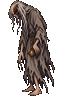
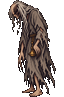
feat: [S-LOOK-PRINCIPLE] 振りかぶった構えの画を縦 104 ドットまで元の立ち絵と同じ倍率で取り込み、実体の目録に立ち絵の高さを書き出す

diff --git a/art/import.js b/art/import.js
@@ -3,7 +3,7 @@
 // 取り込み元の <asset_id>.png を読み、共通のドットの格子（論理解像度 1280×720 の2画素を1ドットとする、640×360 ドット）へ
 // 縮める。立ち絵は背景を除いて余白を詰め、64×96 ドットの透明な枠の下端に置いた PNG に、背景は 16:9 に切り出して
 // 640×360 ドットの PNG にして、src/ui/public/art/ へ書き出す。構えの画（<立ち絵のID>_MARTIAL・_STAGGER 等）は元の立ち絵と
-// 同じ倍率で縮め、幅だけを 96 ドットまで広げてよい（取り込み元に元の立ち絵も置く）。人物が元の画と異なる大きさで
+// 同じ倍率で縮め、幅を 96 ドット、高さを 104 ドットまで広げてよい（取り込み元に元の立ち絵も置く）。人物が元の画と異なる大きさで
 // 描かれた構えの画は、取り込み元の scales.json（{ "<asset_id>": 倍率 }）で倍率を補正する。画面は image-rendering: pixelated で拡大して描く。
 // 音声は取り込み元の <asset_id>.mp3 をそのまま写す。
 // 背景の切り出しの縦位置は、取り込み元の crops.json（{ "<asset_id>": -1〜1 }）で選べる。
@@ -19,9 +19,10 @@ const OUT_DIR = path.resolve(path.dirname(fileURLToPath(import.meta.url)), '..',
 // 1ドット = 論理解像度の2画素。立ち絵は戦闘の表示の高さ 192px（96ドット）、背景は 1280×720（640×360 ドット）。
 const STANDING_BOX = { width: 64, height: 96 };
 const BACKGROUND_SIZE = { width: 640, height: 360 };
-// 構えの画（[S-LOOK-PRINCIPLE]【盤面の構え】）。得物を伸ばした構えのために、枠の幅をここまで広げてよい。
+// 構えの画（[S-LOOK-PRINCIPLE]【盤面の構え】）。得物を伸ばした構え・振りかぶった構えのために、枠をここまで広げてよい。
+// 高さの上限は、盤面のマスの立ち絵の上の余白（style.css の --cell-height）に収まる大きさとする。
 const POSE_SUFFIX = /_((MARTIAL|STANCE|MIND)(_FOLLOW)?|STAGGER)$/;
-const POSE_MAX_WIDTH = 96;
+const POSE_MAX = { width: 96, height: 104 };
 
 // 背景を除いた画素と、不透明な範囲。
 function cutOut(source) {
@@ -36,15 +37,15 @@ function cutOut(source) {
 }
 
 // base は構えの画の元の立ち絵（[S-LOOK-PRINCIPLE]【盤面の構え】）。与えられたときは元の画と同じ倍率で縮め、
-// 得物を伸ばした構えが枠の幅を越える分は、枠を POSE_MAX_WIDTH まで広げて収める。
+// 得物を伸ばした構えが枠を越える分は、枠を POSE_MAX まで広げて収める（足元は枠の下端に揃える）。
 function importStanding(source, base) {
   const { pixels, width, height, bounds } = cutOut(source);
   const cropped = nativeImage.createFromBitmap(pixels, { width, height }).crop(bounds);
   const size =
     base === null
       ? fitInto(bounds.width, bounds.height, STANDING_BOX.width, STANDING_BOX.height)
-      : fitLike(bounds.width, bounds.height, base.bounds.width, base.bounds.height, STANDING_BOX.width, STANDING_BOX.height, POSE_MAX_WIDTH);
-  const box = { width: Math.max(STANDING_BOX.width, size.width + (size.width % 2)), height: STANDING_BOX.height };
+      : fitLike(bounds.width, bounds.height, base.bounds.width, base.bounds.height, STANDING_BOX.width, STANDING_BOX.height, POSE_MAX.width, POSE_MAX.height);
+  const box = { width: Math.max(STANDING_BOX.width, size.width + (size.width % 2)), height: Math.max(STANDING_BOX.height, size.height) };
   const scaled = cropped.resize({ ...size, quality: 'best' });
   const placed = placeBottomCenter(snapAlpha(scaled.toBitmap()), size.width, size.height, box.width, box.height);
   return nativeImage.createFromBitmap(placed, box).toPNG();

diff --git a/art/manifest.js b/art/manifest.js
@@ -1,8 +1,9 @@
 // [I-PLAN-ASSETS]【実体の投入】実体の目録。src/ui/public/art/ にあるファイルの一覧を src/ui/assets/art-manifest.ts へ書き出す。
 // 画面は目録にあるファイルだけを読みに行き、実体の無い資産はプレースホルダのまま描く（無いファイルを要求し続けない）。
+// 立ち絵は高さ（ドット）も書き出す。盤面は高さに比例して描き、96 ドットを越える構えの画も同じ倍率で描く。
 //   node art/manifest.js
 
-import { existsSync, readdirSync, statSync, writeFileSync } from 'node:fs';
+import { existsSync, readFileSync, readdirSync, statSync, writeFileSync } from 'node:fs';
 import path from 'node:path';
 import { fileURLToPath } from 'node:url';
 
@@ -23,14 +24,25 @@ function listFiles(dir, prefix) {
     });
 }
 
+// PNG の IHDR から高さを読む。
+function pngHeight(file) {
+  return readFileSync(path.join(ROOT, 'src', 'ui', 'public', file)).readUInt32BE(20);
+}
+
 export function writeManifest() {
   const files = listFiles(ART_DIR, 'art').sort();
   const body = files.map((file) => `  ${JSON.stringify(file)},`).join('\n');
+  const heights = files
+    .filter((file) => file.startsWith('art/standing/') && file.endsWith('.png'))
+    .map((file) => `  ${JSON.stringify(file)}: ${pngHeight(file)},`)
+    .join('\n');
   writeFileSync(
     OUT,
     `// このファイルは art/manifest.js により生成される（[I-PLAN-ASSETS]【実体の投入】）。生成後に人が編集しない。\n` +
       `// src/ui/public/art/ にある実体の一覧。\n` +
-      `export const ART_FILES: readonly string[] = [\n${body}${body === '' ? '' : '\n'}];\n`,
+      `export const ART_FILES: readonly string[] = [\n${body}${body === '' ? '' : '\n'}];\n\n` +
+      `// 立ち絵の高さ（ドット）。\n` +
+      `export const STANDING_HEIGHTS: Readonly<Record<string, number>> = {\n${heights}${heights === '' ? '' : '\n'}};\n`,
   );
   return files.length;
 }

diff --git a/tests/art/image.test.ts b/tests/art/image.test.ts
@@ -38,13 +38,16 @@ describe('[I-PLAN-ASSETS] 画像の取り込み', () => {
   });
 
   // [S-LOOK-PRINCIPLE]【盤面の構え】構えで人物の大きさを変えない。
-  it('構えの画は元の立ち絵と同じ倍率で縮め、幅は上限の枠まで広げてよい', () => {
+  it('構えの画は元の立ち絵と同じ倍率で縮め、幅と高さは上限の枠まで広げてよい', () => {
     // 元の画 400×1200 は 64×96 の枠へ 0.08 倍。身を低くした構え（高さ 900）も同じ倍率で縮める。
-    expect(fitLike(500, 900, 400, 1200, 64, 96, 96)).toEqual({ width: 40, height: 72 });
+    expect(fitLike(500, 900, 400, 1200, 64, 96, 96, 104)).toEqual({ width: 40, height: 72 });
     // 得物を伸ばした構え（幅 1000）は 80 ドットとなり、上限 96 の内に収まる。
-    expect(fitLike(1000, 1200, 400, 1200, 64, 96, 96)).toEqual({ width: 80, height: 96 });
-    // 上限を越える構え（幅 1500 → 120）は、上限に収まるまで縮める。
-    expect(fitLike(1500, 1200, 400, 1200, 64, 96, 96)).toEqual({ width: 96, height: 77 });
+    expect(fitLike(1000, 1200, 400, 1200, 64, 96, 96, 104)).toEqual({ width: 80, height: 96 });
+    // 振りかぶった構え（高さ 1250 → 100）は、上限 104 の内に収まり、元の画と同じ倍率のまま。
+    expect(fitLike(400, 1250, 400, 1200, 64, 96, 96, 104)).toEqual({ width: 32, height: 100 });
+    // 上限を越える構え（幅 1500 → 120、高さ 1400 → 112）は、上限に収まるまで縮める。
+    expect(fitLike(1500, 1200, 400, 1200, 64, 96, 96, 104)).toEqual({ width: 96, height: 77 });
+    expect(fitLike(400, 1400, 400, 1200, 64, 96, 96, 104)).toEqual({ width: 30, height: 104 });
   });
 
   it('構えの画の asset_id も立ち絵の取り込み先へ写す', () => {

diff --git a/src/ui/assets/art-manifest.ts b/src/ui/assets/art-manifest.ts
@@ -74,3 +74,39 @@ export const ART_FILES: readonly string[] = [
   "art/standing/toto.png",
   "art/standing/volg.png",
 ];
+
+// 立ち絵の高さ（ドット）。
+export const STANDING_HEIGHTS: Readonly<Record<string, number>> = {
+  "art/standing/ashal.png": 96,
+  "art/standing/calva.png": 96,
+  "art/standing/dorn.png": 96,
+  "art/standing/garud.png": 96,
+  "art/standing/hero-coat-act2.png": 96,
+  "art/standing/hero-martial-follow.png": 96,
+  "art/standing/hero-martial.png": 96,
+  "art/standing/hero-mind-follow.png": 96,
+  "art/standing/hero-mind.png": 96,
+  "art/standing/hero-stagger.png": 96,
+  "art/standing/hero-stance-follow.png": 96,
+  "art/standing/hero-stance.png": 96,
+  "art/standing/hero.png": 96,
+  "art/standing/ish.png": 96,
+  "art/standing/kai.png": 96,
+  "art/standing/lef-martial-follow.png": 96,
+  "art/standing/lef-martial.png": 100,
+  "art/standing/lef-mind-follow.png": 96,
+  "art/standing/lef-mind.png": 97,
+  "art/standing/lef-stagger.png": 96,
+  "art/standing/lef-stance-follow.png": 96,
+  "art/standing/lef-stance.png": 96,
+  "art/standing/lef.png": 96,
+  "art/standing/listener.png": 96,
+  "art/standing/mireille.png": 96,
+  "art/standing/rina.png": 96,
+  "art/standing/rotted-familiar.png": 96,
+  "art/standing/servis.png": 96,
+  "art/standing/shard-arm.png": 96,
+  "art/standing/stitched.png": 96,
+  "art/standing/toto.png": 96,
+  "art/standing/volg.png": 96,
+};

diff --git a/art/image.js b/art/image.js
@@ -86,9 +86,9 @@ export function fitInto(width, height, boxWidth, boxHeight) {
 
 // [S-LOOK-PRINCIPLE]【盤面の構え】構えの画は、元の立ち絵と同じ倍率で縮める（構えで人物の大きさを変えない）。
 // 倍率は元の画の不透明な範囲を枠（boxWidth×boxHeight）に収める倍率とし、構えの画がはみ出す場合に限り
-// 枠（maxWidth×boxHeight）に収まるまで縮める。
-export function fitLike(width, height, baseWidth, baseHeight, boxWidth, boxHeight, maxWidth) {
-  const scale = Math.min(boxWidth / baseWidth, boxHeight / baseHeight, maxWidth / width, boxHeight / height);
+// 上限の枠（maxWidth×maxHeight）に収まるまで縮める。
+export function fitLike(width, height, baseWidth, baseHeight, boxWidth, boxHeight, maxWidth, maxHeight) {
+  const scale = Math.min(boxWidth / baseWidth, boxHeight / baseHeight, maxWidth / width, maxHeight / height);
   return { width: Math.max(1, Math.round(width * scale)), height: Math.max(1, Math.round(height * scale)) };
 }
 
